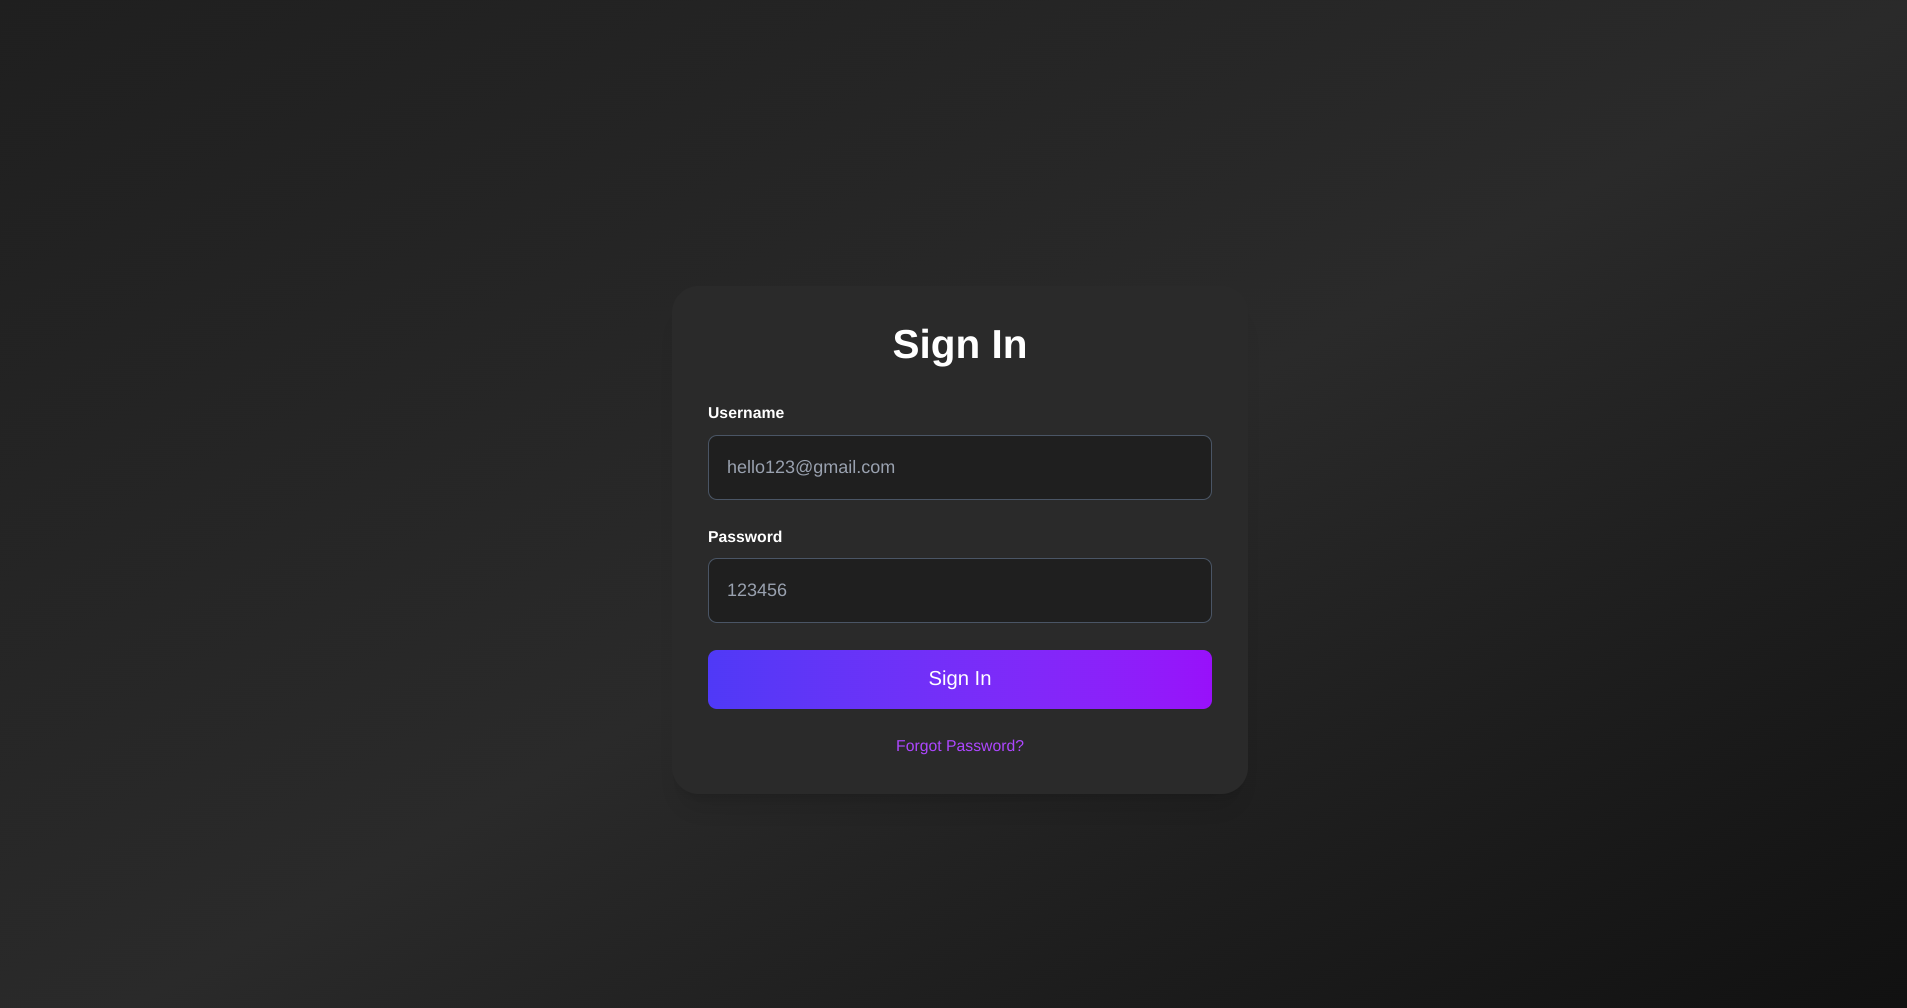
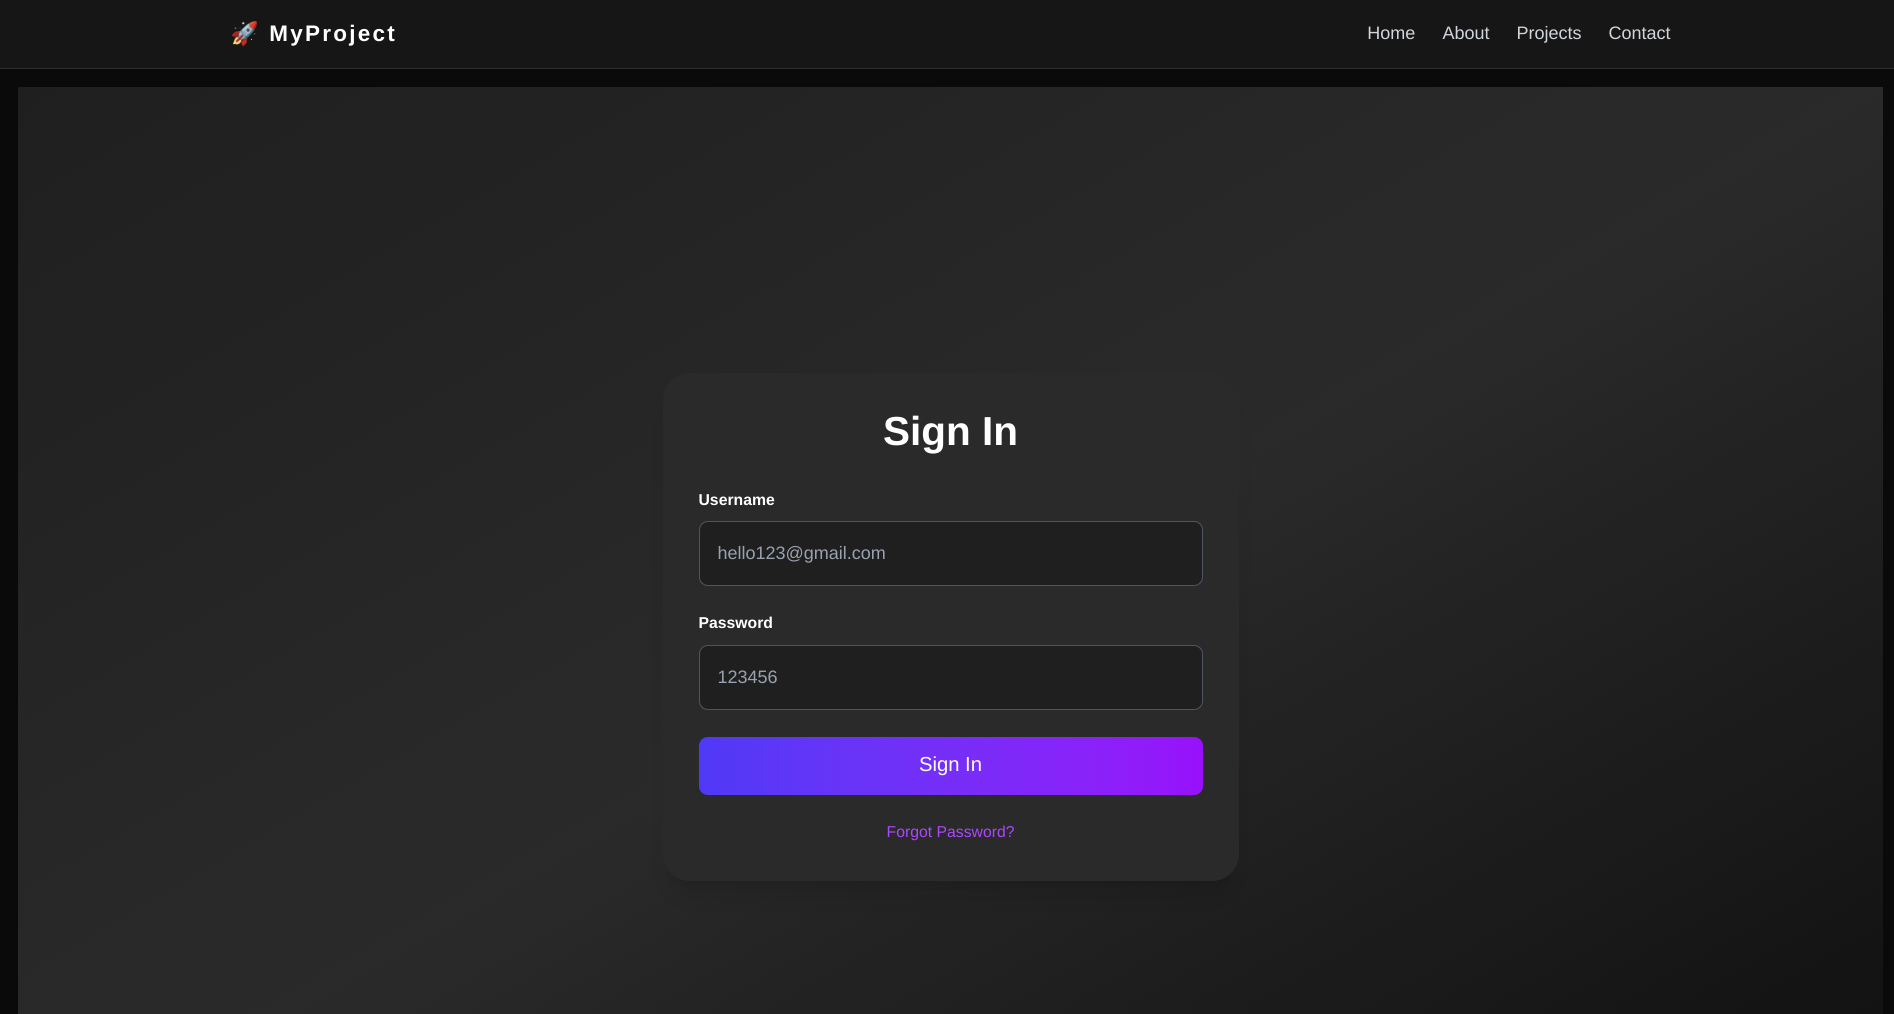
Introduction to Nextjs

diff --git a/Week_18/18.2_nextjs-intro/app/users/layout.tsx b/Week_18/18.2_nextjs-intro/app/users/layout.tsx
@@ -1,0 +1,51 @@
+export default function RootLayout({
+  children,
+}: {
+  children: React.ReactNode;
+}) {
+  return (
+    <html lang="en">
+      <body className="bg-gradient-to-br from-gray-900 via-black to-gray-800 text-white min-h-screen">
+        <div className="flex">
+          <Sidebar />
+          <div className="flex-1 min-h-screen">
+            <TopNavbar />
+            <main className="p-6">{children}</main>
+          </div>
+        </div>
+      </body>
+    </html>
+  );
+}
+
+// Sidebar Component
+function Sidebar() {
+  return (
+    <aside className="w-64 bg-white/5 backdrop-blur-md shadow-lg h-screen p-6 border-r border-white/10 sticky top-0 hidden md:block">
+      <h2 className="text-2xl font-bold mb-8">📊 Dashboard</h2>
+      <ul className="space-y-4 text-gray-300">
+        <li className="hover:text-white transition">🏠 Overview</li>
+        <li className="hover:text-white transition">📁 Projects</li>
+        <li className="hover:text-white transition">🧑💼 Team</li>
+        <li className="hover:text-white transition">⚙ Settings</li>
+      </ul>
+    </aside>
+  );
+}
+
+// Top Navbar Component
+function TopNavbar() {
+  return (
+    <header className="w-full px-6 py-4 bg-white/5 backdrop-blur-md shadow-md border-b border-white/10 sticky top-0 z-40">
+      <div className="flex justify-between items-center">
+        <h1 className="text-xl font-bold tracking-wider">Welcome Back!</h1>
+        <div className="flex items-center space-x-4">
+          <button className="px-3 py-1 bg-white/10 hover:bg-white/20 rounded-lg text-sm transition">
+            Notifications
+          </button>
+          <div className="w-8 h-8 bg-gray-500 rounded-full" />
+        </div>
+      </div>
+    </header>
+  );
+}

diff --git a/Week_18/18.2_nextjs-intro/app/auth/layout.tsx b/Week_18/18.2_nextjs-intro/app/auth/layout.tsx
@@ -1,0 +1,32 @@
+export default function RootLayout({
+  children,
+}: {
+  children: React.ReactNode;
+}) {
+  return (
+    <html lang="en">
+      <body className="bg-gradient-to-br from-gray-900 via-black to-gray-800 text-white min-h-screen">
+        <Navbar />
+        <main className="p-4">{children}</main>
+      </body>
+    </html>
+  );
+}
+
+function Navbar() {
+  return (
+    <nav className="w-full px-6 py-4 bg-white/5 backdrop-blur-md shadow-md border-b border-white/10 sticky top-0 z-50">
+      <div className="max-w-7xl mx-auto flex justify-between items-center">
+        <h1 className="text-xl font-bold text-white tracking-widest">
+          🚀 MyProject
+        </h1>
+        <ul className="flex space-x-6 text-gray-300 font-medium">
+          <li className="hover:text-white transition">Home</li>
+          <li className="hover:text-white transition">About</li>
+          <li className="hover:text-white transition">Projects</li>
+          <li className="hover:text-white transition">Contact</li>
+        </ul>
+      </div>
+    </nav>
+  );
+}

diff --git a/Week_18/18.2_nextjs-intro/app/page.tsx b/Week_18/18.2_nextjs-intro/app/page.tsx
@@ -1,3 +1,14 @@
 export default function Home() {
-  return <p>Hello there this is my very first project in Next js</p>;
+  return (
+    <div className="min-h-screen flex items-center justify-center bg-gradient-to-br from-gray-900 via-gray-800 to-gray-900">
+      <div className="backdrop-blur-lg bg-white/5 shadow-2xl border border-white/10 rounded-2xl p-10 max-w-md text-center transition-all duration-300 hover:scale-105">
+        <h1 className="text-3xl font-bold text-white mb-4 drop-shadow-md">
+          Hello there 👋
+        </h1>
+        <p className="text-lg text-gray-300">
+          This is my very first project in <span className="font-semibold text-white">Next.js</span>
+        </p>
+      </div>
+    </div>
+  );
 }

diff --git a/Week_18/18.2_nextjs-intro/README.md b/Week_18/18.2_nextjs-intro/README.md
@@ -56,3 +56,9 @@ You can check out [the Next.js GitHub repository](https://github.com/vercel/next
 The easiest way to deploy your Next.js app is to use the [Vercel Platform](https://vercel.com/new?utm_medium=default-template&filter=next.js&utm_source=create-next-app&utm_campaign=create-next-app-readme) from the creators of Next.js.
 
 Check out our [Next.js deployment documentation](https://nextjs.org/docs/app/building-your-application/deploying) for more details.
+
+
+
+### NOTES ABOUT NEXTjs
+
+The layout in Next.js acts like the index.html (root wrapper) in React, but it’s much more powerful and dynamic.
